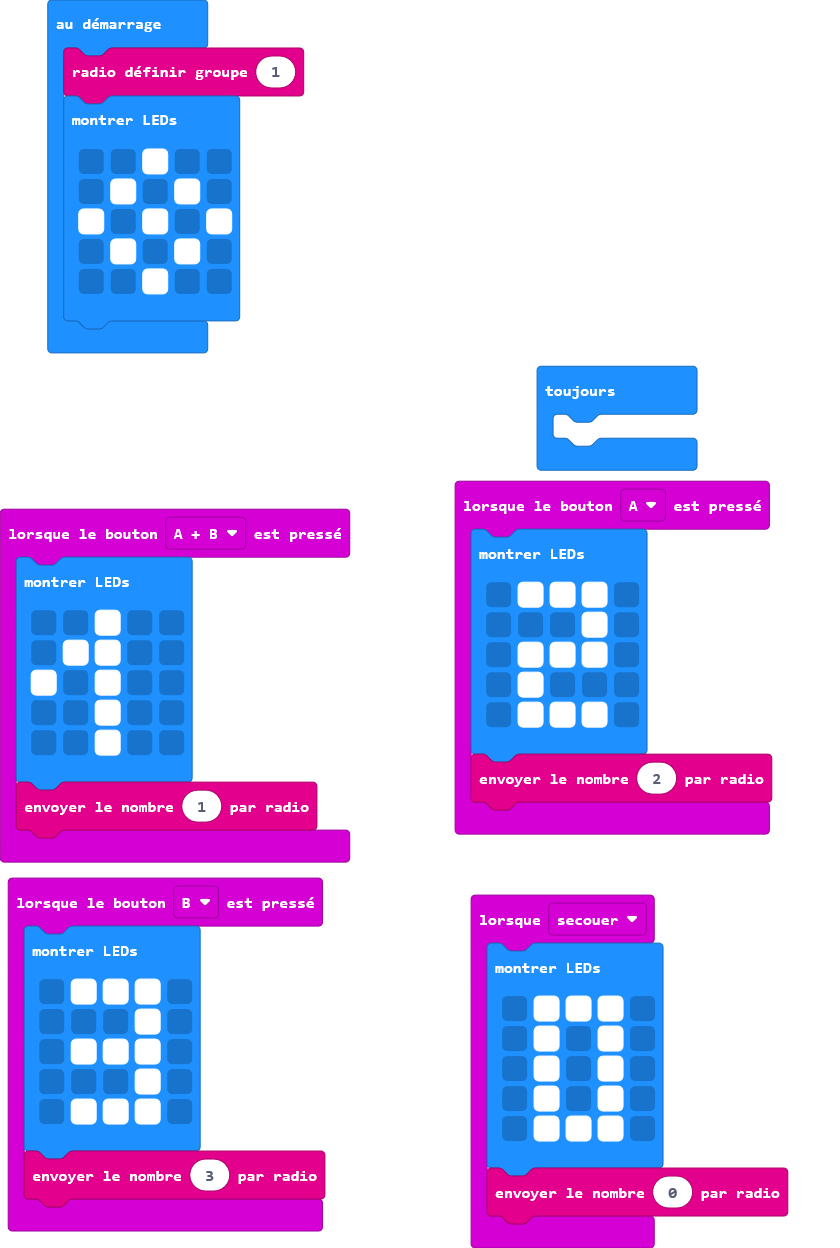
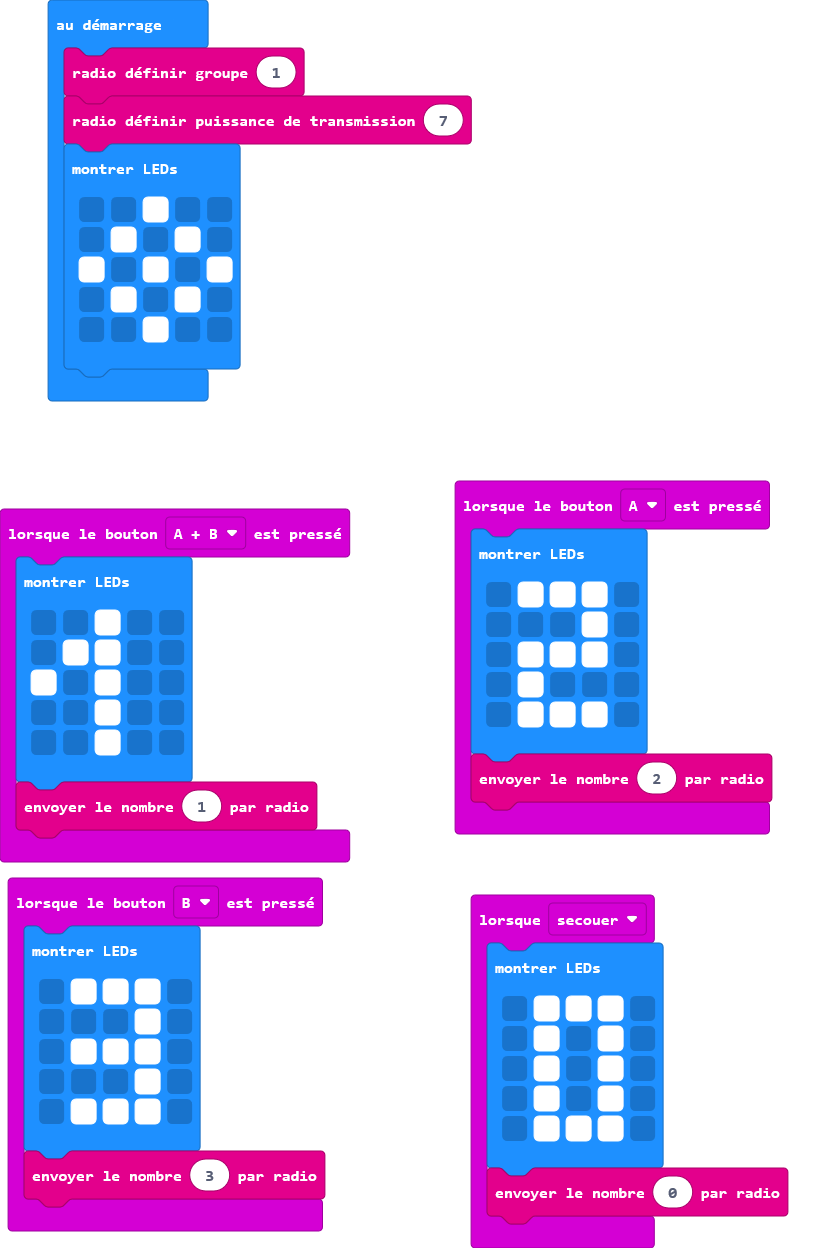
Mise à jour main.blocks, main.ts

Changed region(s): [[0.031, 0.0, 0.5881, 0.3438], [0.619, 0.2812, 0.8357, 0.4062]]

diff --git a/main.ts b/main.ts
@@ -39,6 +39,7 @@ input.onGesture(Gesture.Shake, function () {
     radio.sendNumber(0)
 })
 radio.setGroup(1)
+radio.setTransmitPower(7)
 basic.showLeds(`
     . . # . .
     . # . # .
@@ -46,6 +47,3 @@ basic.showLeds(`
     . # . # .
     . . # . .
     `)
-basic.forever(function () {
-	
-})
